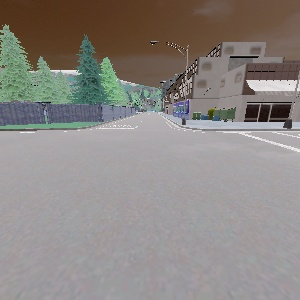
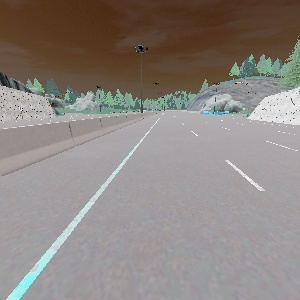
remove junction episodes

diff --git a/vision_rl/rllib_integration/carla_core.py b/vision_rl/rllib_integration/carla_core.py
@@ -273,7 +273,11 @@ class CarlaCore:
                         )
                     spawn_points.append(transform)
             else:
-                spawn_points = self.map.generate_waypoints(20)
+                def filter(wp):
+                    # if not wp.is_junction:
+                        return wp.transform
+                spawn_points = list(map(filter,self.map.generate_waypoints(2)))
+                # breakpoint()
             # If already spawned, destroy it
             if self.hero is not None:
                 # self.hero.destroy()

diff --git a/vision_rl/rllib_integration/carla_env_v2.py b/vision_rl/rllib_integration/carla_env_v2.py
@@ -33,7 +33,8 @@ class CarlaEnv(gym.Env):
     def reset(self):
         # Reset sensors hero and experiment
         self.experiment.reset(self)
-        self.experiment.config["hero"]["trajectories"]=self.experiment.trajectories
+        if hasattr(self.experiment,"trajectories"):
+            self.experiment.config["hero"]["trajectories"]=self.experiment.trajectories
         self.hero = self.core.reset_hero(self.experiment.config["hero"])
         # Tick once and get the observations
         sensor_data = self.core.tick(None)
